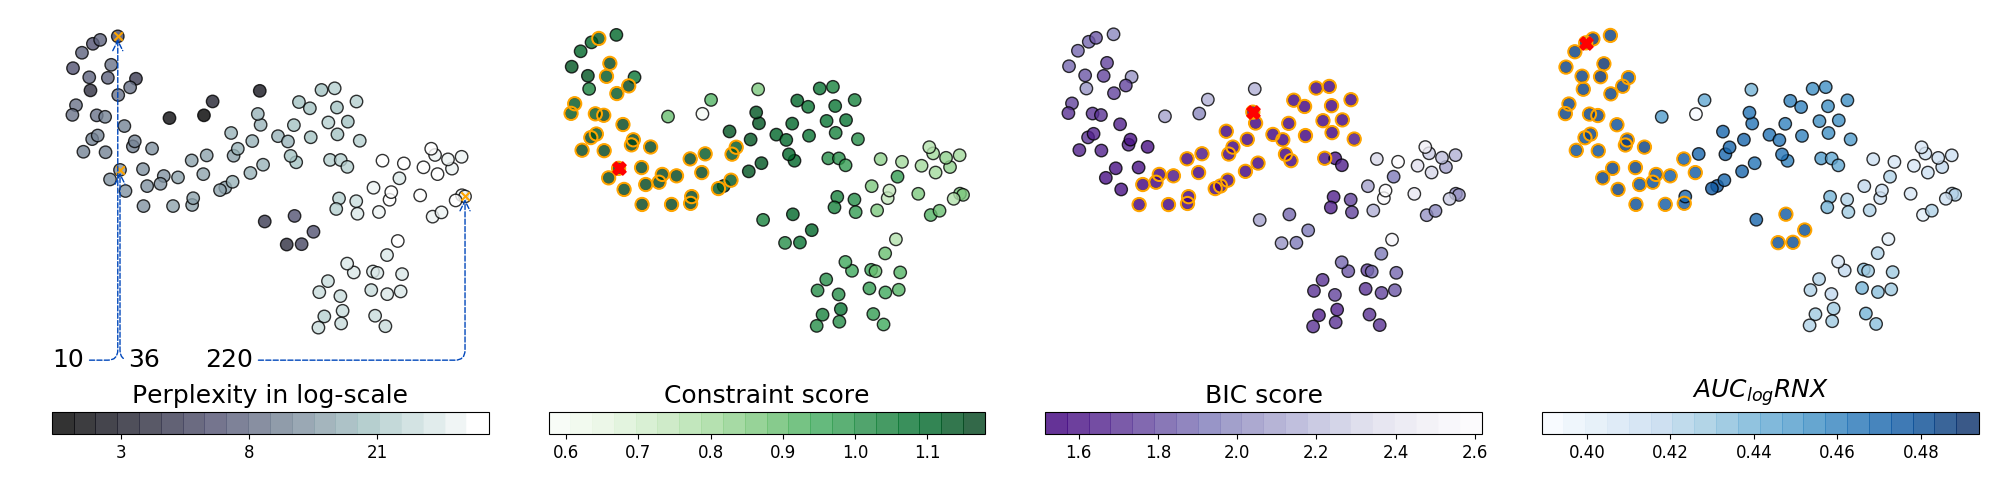
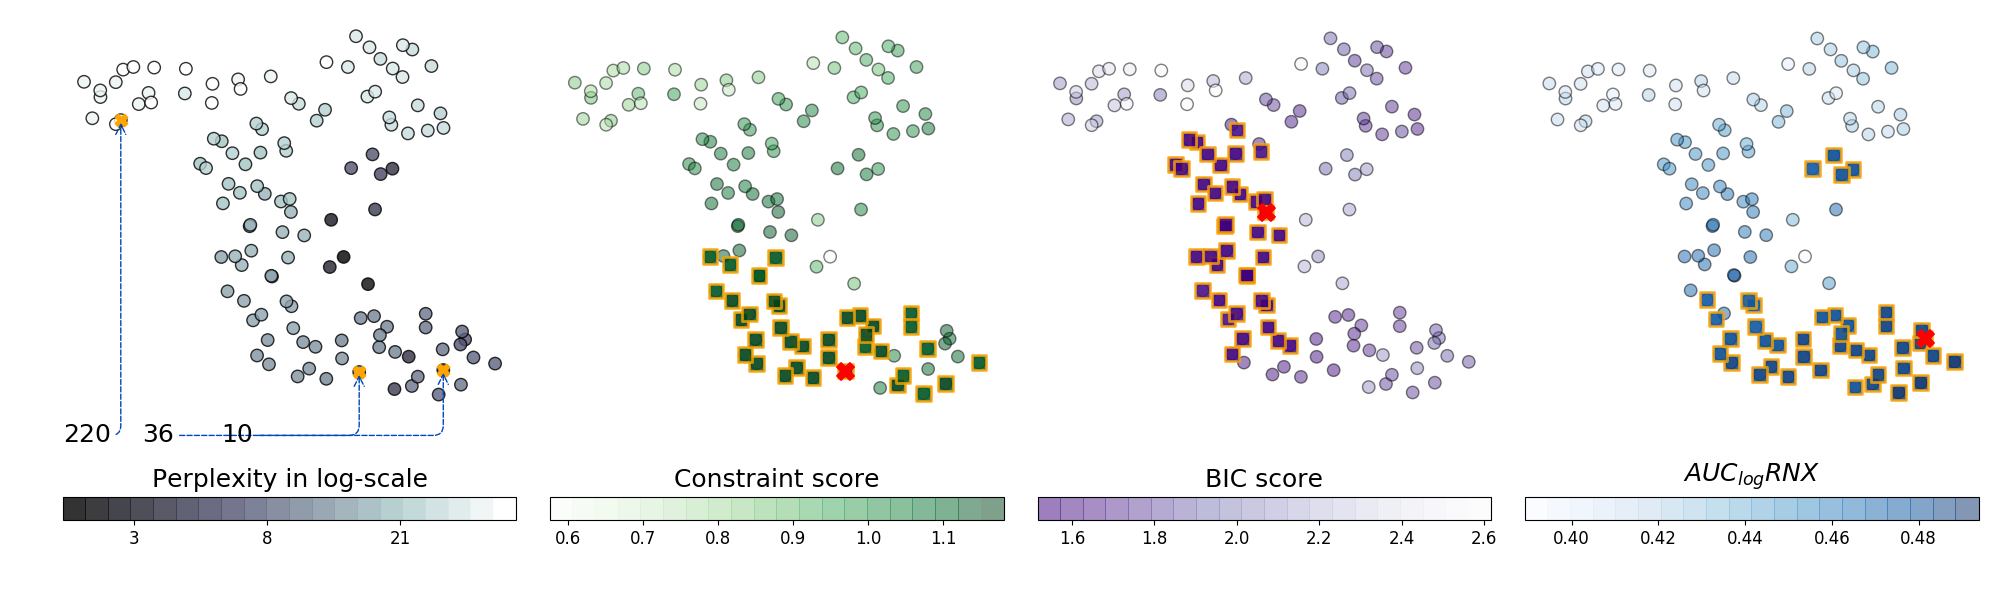
Fix readability for tsne metamap

diff --git a/code/plot_viz.py b/code/plot_viz.py
@@ -72,35 +72,51 @@ def _simple_scatter(ax, Z, labels=None, title="", comment="", axis_off=True):
 
 
 def _simple_scatter_with_colorbar(
-    ax, Z, labels, title="", cmap_name="viridis", Z_highlight=None, Z_best=None
+    ax, Z, labels, title="", cmap_name="viridis", best_indices=None, best_idx=None
 ):
+    plot_for_score_values = best_indices is not None
     ax.axis("off")
     marker_size = 80
+    c_min, c_max = labels.min(), labels.max()
+    norm = plt.Normalize(c_min, c_max)
+    cmap = cm.get_cmap(cmap_name, 20)
 
-    if Z_highlight is not None:
+    if best_indices is not None:
         ax.scatter(
-            Z_highlight[:, 0],
-            Z_highlight[:, 1],
-            facecolors="none",
+            Z[best_indices][:, 0],
+            Z[best_indices][:, 1],
+            c=labels[best_indices],
+            cmap=cmap,
+            # facecolors="none",
             edgecolor="orange",
-            s=marker_size + 10,
-            linewidths=1.5,
+            marker="s",
+            s=marker_size + 30,
+            linewidths=2,
             zorder=99,
+            alpha=0.8,
+            norm=norm,
         )
-    if Z_best is not None:
-        ax.scatter(Z_best[0], Z_best[1], c="red", marker="X", s=marker_size + 10, zorder=100)
+
+    if best_idx is not None:
+        ax.scatter(*Z[best_idx], c="red", marker="X", s=2 * marker_size, zorder=100)
 
     # should custom colorbar for metaplot colored by perplexity values
-    cmap = cm.get_cmap(cmap_name, 20)
     scatter = ax.scatter(
-        Z[:, 0], Z[:, 1], c=labels, alpha=0.8, cmap=cmap, s=marker_size, edgecolor="black"
+        Z[:, 0],
+        Z[:, 1],
+        c=labels,
+        alpha=0.5 if plot_for_score_values else 0.8,
+        cmap=cmap,
+        s=marker_size,
+        edgecolor="black",
+        norm=norm,
     )
     ax.text(
         x=0.5, y=-0.2, s=title, transform=ax.transAxes, va="bottom", ha="center", fontsize=18
     )
 
     cb = plt.colorbar(scatter, ax=ax, orientation="horizontal")
-    if Z_highlight is None and Z_best is None:
+    if best_indices is None:
         nbins = math.floor(max(labels))
         print("nbins: ", nbins)
         tick_locator = ticker.MaxNLocator(nbins=nbins)
@@ -221,7 +237,7 @@ def meta_umap(X, meta_n_neighbors=15, cache=False, embedding_dir=""):
     if cache:
         Z = joblib.load(f"{embedding_dir}/metamap{meta_n_neighbors}.z")
     else:
-        Z = UMAP(n_neighbors=meta_n_neighbors, min_dist=1.0, random_state=42).fit_transform(X)
+        Z = UMAP(n_neighbors=meta_n_neighbors, min_dist=1.0, random_state=30).fit_transform(X)
         joblib.dump(Z, f"{embedding_dir}/metamap{meta_n_neighbors}.z")
     return Z
 
@@ -231,7 +247,7 @@ def plot_metamap_with_scores_tsne(
     plot_dir,
     embedding_dir,
     score_dir,
-    meta_n_neighbors=20,
+    meta_n_neighbors=50,
     n_labels_each_class=10,
     threshold=0.96,
     use_cache=False,
@@ -261,13 +277,13 @@ def plot_metamap_with_scores_tsne(
     X = StandardScaler().fit_transform(X)
     Z = meta_umap(X, meta_n_neighbors, cache=use_cache, embedding_dir=embedding_dir)
 
-    fig, [ax0, ax1, ax2, ax3] = plt.subplots(1, 4, figsize=(20, 7))
+    fig, [ax0, ax1, ax2, ax3] = plt.subplots(1, 4, figsize=(20, 6))
     # note: roll axes to make subfigure for perplexity being moved from last to first
     for config, scores, ax in zip(score_config, all_scores, [ax1, ax2, ax3, ax0]):
         score_name, score_title, score_cmap = config
 
         if score_name == "perplexity":
-            Z_highlight, Z_best = None, None
+            best_indices, best_idx = None, None
         else:
             if score_name == "bic":
                 pivot = (1.0 + (1.0 - threshold)) * min(scores)
@@ -277,8 +293,6 @@ def plot_metamap_with_scores_tsne(
                 pivot = threshold * scores.max()
                 (best_indices,) = np.where(scores > pivot)
                 best_idx = np.argmax(scores)
-            Z_highlight = Z[best_indices]
-            Z_best = Z[best_idx]
 
         _simple_scatter_with_colorbar(
             ax,
@@ -286,8 +300,8 @@ def plot_metamap_with_scores_tsne(
             labels=scores,
             title=score_title,
             cmap_name=score_cmap,
-            Z_highlight=Z_highlight,
-            Z_best=Z_best,
+            best_indices=best_indices,
+            best_idx=best_idx,
         )
 
     # ax0 show metamap colored by perplexity values.
@@ -301,8 +315,8 @@ def plot_metamap_with_scores_tsne(
             list_annotations.append((perplexity, *pos[0]))
     annotate_selected_params_tsne(ax0, list_annotations)
 
-    plt.subplots_adjust(left=0.05)
     fig.tight_layout()
+    plt.subplots_adjust(wspace=0.075)
     fig.savefig(f"{plot_dir}/metamap_scores_{meta_n_neighbors}.png")
 
 
@@ -396,7 +410,7 @@ def annotate_selected_params_tsne(ax, list_annotations):
     print(list_annotations)
     # sort by x coordinate
     for i, (perp_val, pos_x, pos_y) in enumerate(sorted(list_annotations, key=lambda p: p[1])):
-        ax.scatter(pos_x, pos_y, marker="x", color="orange")
+        ax.scatter(pos_x, pos_y, marker="X", color="orange", s=80)
         # ax.annotate(str(perp_val), (pos_x, pos_y), fontsize=10)
         ax.annotate(
             str(perp_val),
@@ -421,7 +435,7 @@ def annotate_selected_params_umap(ax, list_annotations):
     for i, (n_neighbors, min_dist, pos_x, pos_y) in enumerate(
         sorted(list_annotations, key=lambda p: p[2])
     ):
-        ax.scatter(pos_x, pos_y, marker="x", color="orange")
+        ax.scatter(pos_x, pos_y, marker="X", color="orange")
         txt = f"{n_neighbors:>6},\n{min_dist:>5}"
         # ax.annotate(txt, (pos_x, pos_y), fontsize=12)
         ax.annotate(
